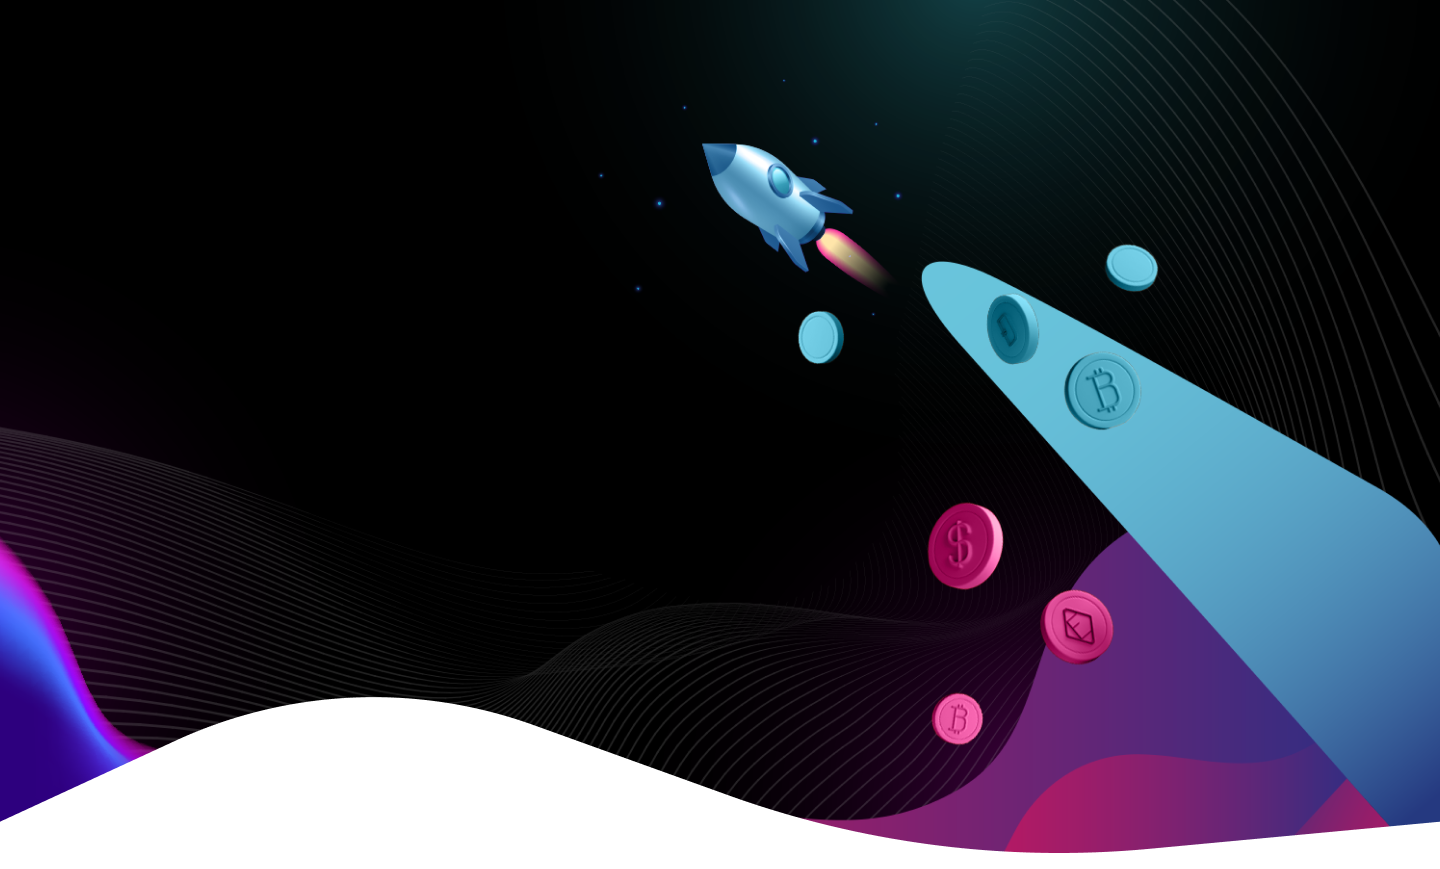
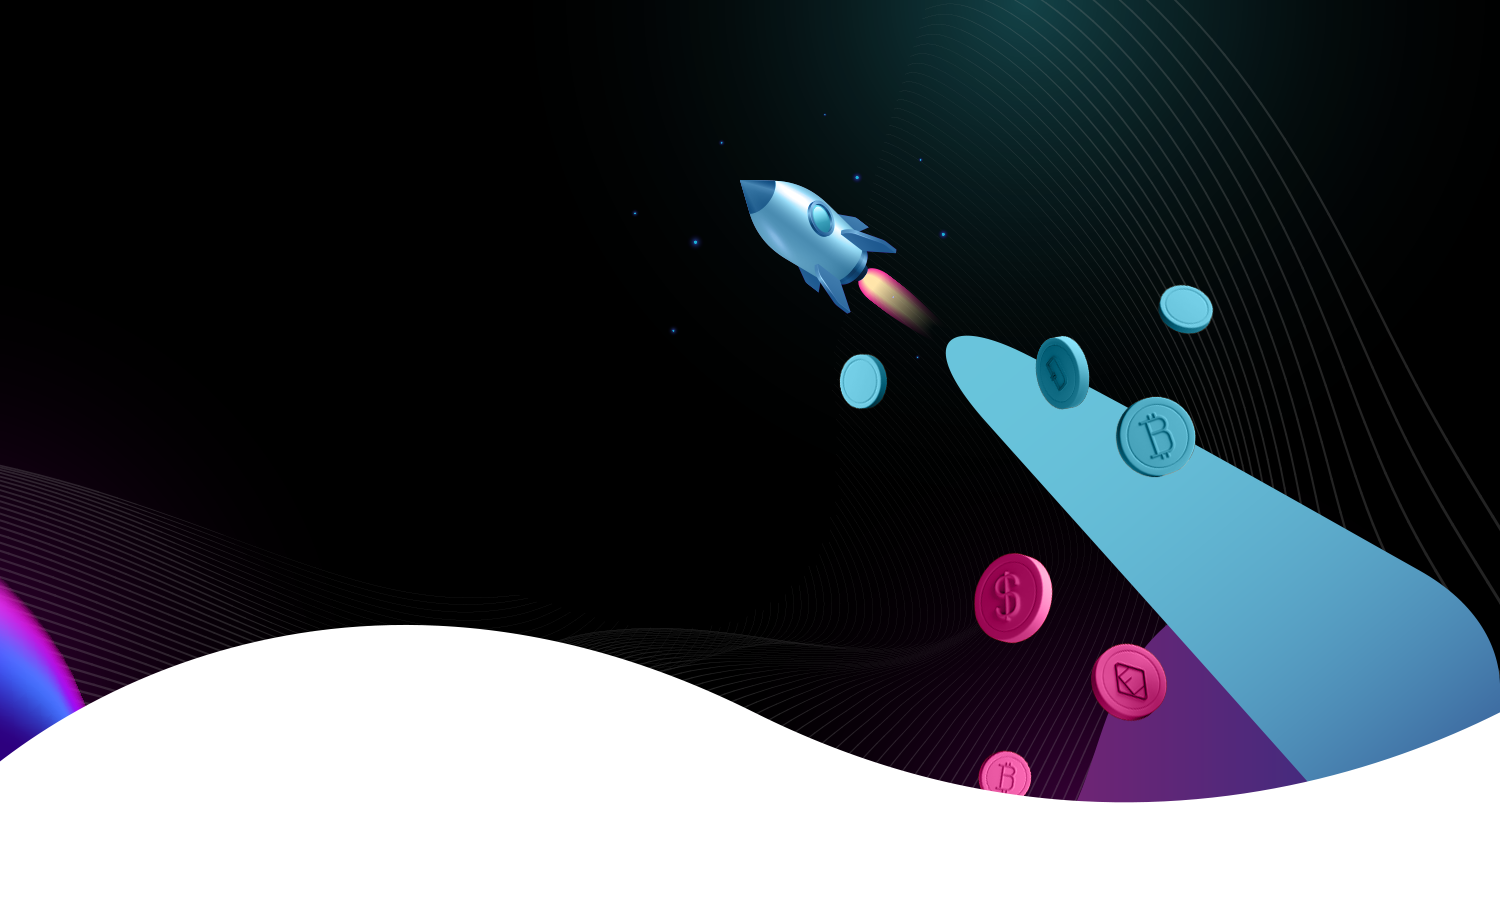
Un 96

Changed region(s): [[0.0, 0.0311, 1.0, 0.9942], [0.9062, 0.3107, 0.9375, 0.3418]]

diff --git a/unopad/src/components/UPNavbar/UPNavbar.js b/unopad/src/components/UPNavbar/UPNavbar.js
@@ -128,7 +128,7 @@ function Navigation({ ...props }) {
 
   return (
     <Container fluid className={getBannerClassName()}>
-      <Navbar bg="transparent" expand="lg" style={{ zIndex: 1 }}>
+      <Navbar bg="transparent"  expand="lg" style={{ zIndex: 1 }}>
         <Container>
           <Navbar.Brand as={Link} to="/">
             <img
@@ -142,7 +142,7 @@ function Navigation({ ...props }) {
           <Navbar.Toggle aria-controls="basic-navbar-nav" className='navbar-dark' />
           <Navbar.Collapse
             id="basic-navbar-nav"
-            className="justify-content-end flex-column align-items-end"
+            className="justify-content-end flex-column align-items-end navbar-design"
           >
             <Nav className="ml-auto align-items-center py-3 pe-2" variant="pills">
               <Nav.Link
@@ -256,7 +256,7 @@ function Navigation({ ...props }) {
                 {balance_ !== null && balance_ !== undefined && (
                   <div
                     title={balance_}
-                    className="d-flex align-items-center navbar-balance-button 
+                    className="d-none d-sm-flex align-items-center navbar-balance-button 
                 bg-primary rounded px-2 justify-content-center"
                   >
                     <div className="navbar-balance-text text-truncate mr-1 py-1">{balance_}</div>

diff --git a/unopad/src/components/UPNavbar/UPNavbar.scss b/unopad/src/components/UPNavbar/UPNavbar.scss
@@ -42,9 +42,9 @@
 }
 @media only screen and (max-width: 992px) {
   .banner-design{
-    background: url('Banner.png');
+    background: url('Banner-tablet.png');
     background-size: cover;
-    height: 700px;
+    height: 850px;
     width: 100%;
     justify-content: center;
     align-items: center;
@@ -56,13 +56,29 @@
 
     background: url('Banner.png');
     background-size: cover;
-    height: 700px;
+    height: 930px;
     width: 100%;
     justify-content: center;
     align-items: center;
     margin-bottom: 100px;
 }
+
 }
+
+@media only screen and (max-width: 991px) {
+  .navbar-design{
+    position:absolute;
+    margin: 50vh auto 0;
+    background-color: $unopad-tertiary;
+    border-radius: 10px;
+    width: 85%;
+    padding: 10px;
+
+  }
+}
+
+
+
 
 
 
@@ -105,4 +121,25 @@
 
 .navbar-balance-button {
   width: 100px;
+}
+
+@media only screen and (max-width: 576px) {
+  .navbar-balance-button {
+    display: none !important;
+  }
+  .navbar-wallet-account-container {
+    width: 250px !important;
+  }
+}
+
+@media only screen and (max-width: 376px) {
+  .navbar-balance-button {
+    display: none !important;
+  }
+  .navbar-wallet-account-container {
+    width: 200px !important;
+  }
+  .navbar-account-button {
+    width: 200px;
+  }
 }

diff --git a/unopad/src/components/UPBanner/UPBannerHome/BannerHome.scss b/unopad/src/components/UPBanner/UPBannerHome/BannerHome.scss
@@ -5,3 +5,17 @@
     flex-direction: column;
 
   }
+
+
+  @media only screen and (max-width: 1200px) {
+    .home-banner{
+      height: 400px;
+  }
+  }
+
+  @media only screen and (max-width: 992px) {
+    .home-banner{
+      height: 280px;
+  }
+  }
+

diff --git a/unopad/src/components/UPHomeSales/HomeSales.scss b/unopad/src/components/UPHomeSales/HomeSales.scss
@@ -18,7 +18,7 @@
 }
 
 .back-model {
-  background: url('Group74.png');
+  background: url('Group74-web.png');
   background-size: cover;
   height: auto;
   justify-content: center;

diff --git a/unopad/src/components/UPBanner/UPBannerLaunchpad/BannerLaunchpad.scss b/unopad/src/components/UPBanner/UPBannerLaunchpad/BannerLaunchpad.scss
@@ -4,3 +4,13 @@
     display: flex;
     flex-direction: column;
   }
+
+
+
+
+  @media only screen and (max-width: 992px) {
+    .launchpad-banner{
+      height: 40%;
+
+  }
+  }
